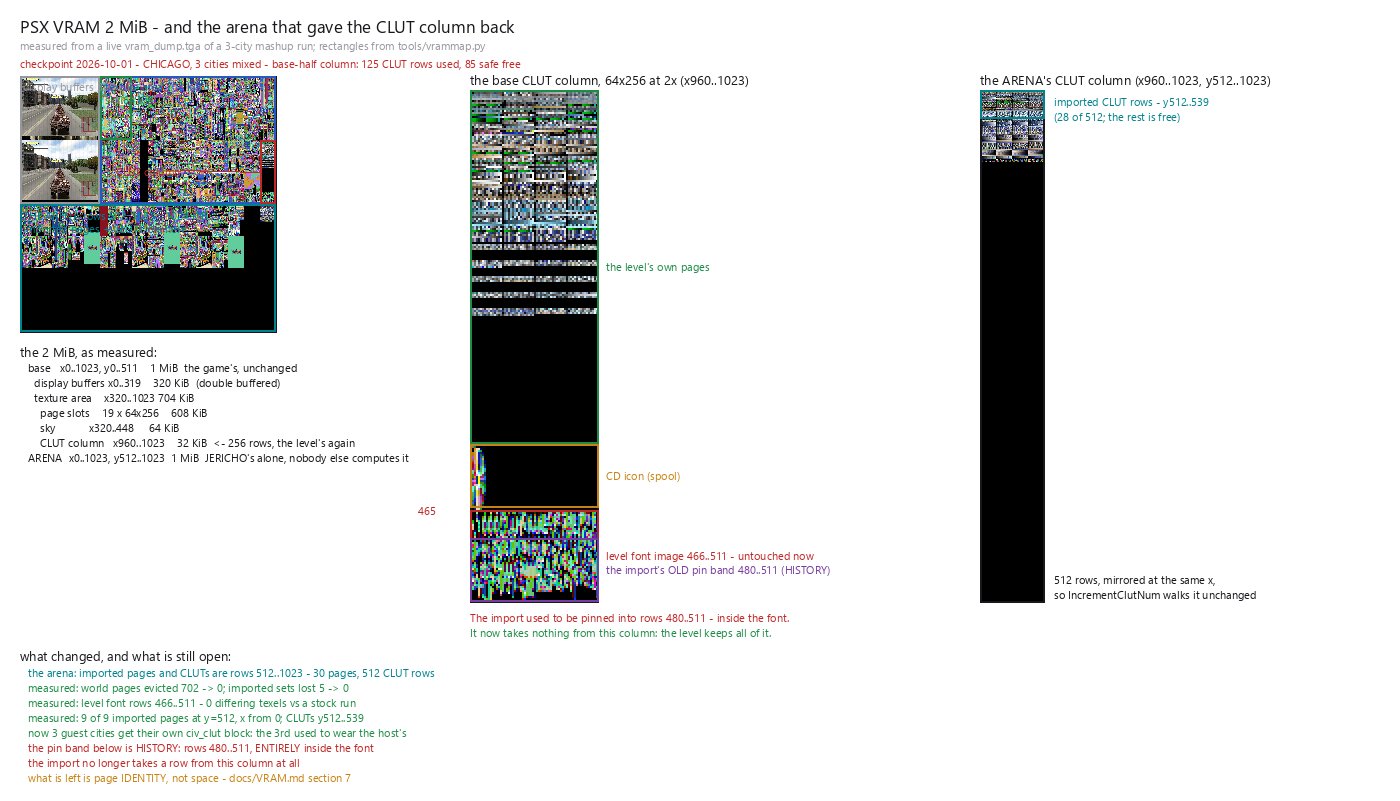
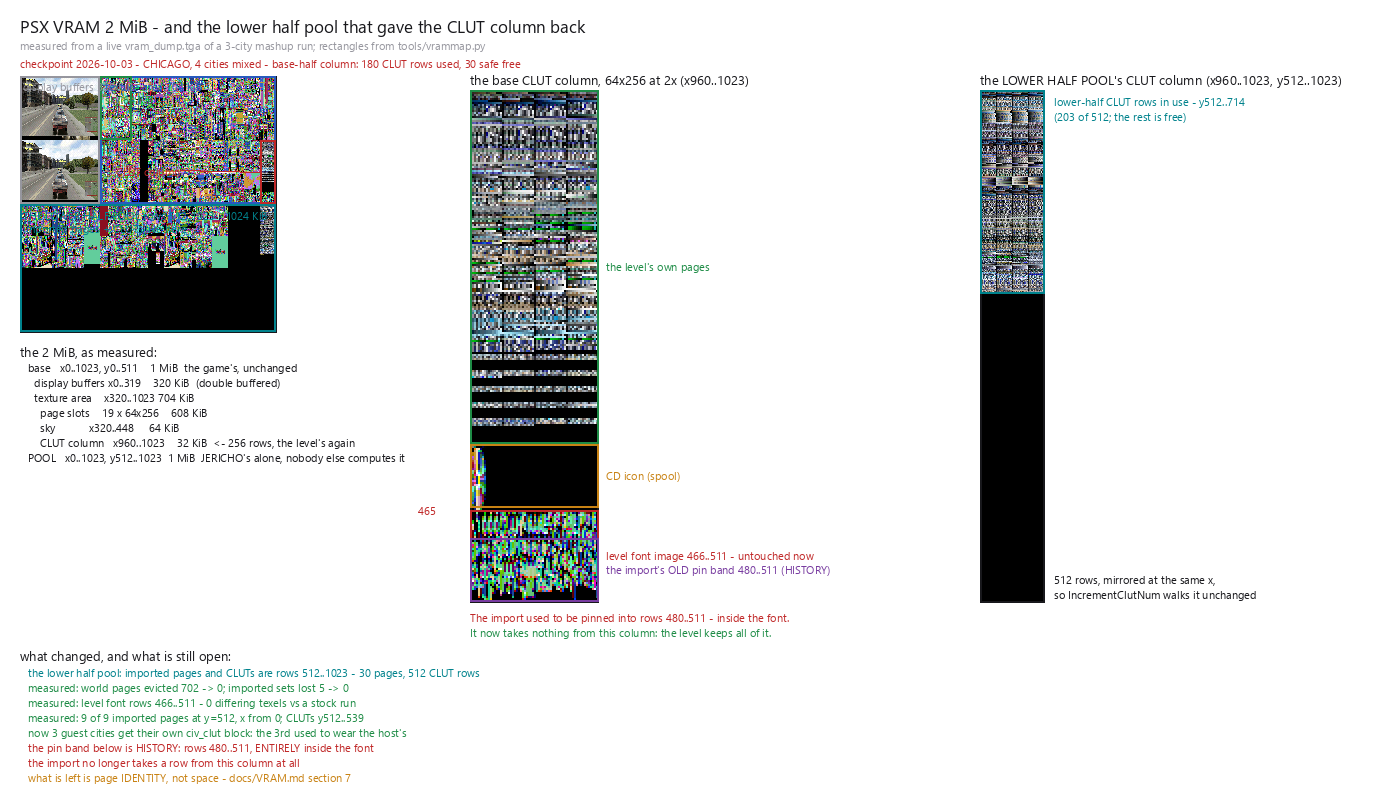
carhacks: a VRAM checkpoint for the three-guest-city run, and a measured label
chk_vram_checkpoint.sh CHICAGO 4 3-guest-cities: docs/vram-issues.png is rendered
from this run's own vram_dump.tga, with the run's numbers stamped into the figure
(base-half column 180 CLUT rows used, 30 safe free), and archived as
docs/vram/2026-10-03-chicago-3-guest-cities.png with an index row.

What it records: with the one-source-city gate lifted (the two_guest_cities
lever), HAVANA, VEGAS and RIO each hold their own civ_clut block in the same run
(rows 8..15 / 16..23 / 24..31) and the base CLUT column is unchanged from the
two-city checkpoint - same 180 used, 30 free. The 2026-09-30 row recorded the
third city being REFUSED at the measured ceiling; this one is that third city
working, at the same numbers.

Also fixed a stale annotation in make_vram_issues_png.py: the lower-half CLUT
panel hard-coded "imported CLUT rows - y512..539 (28 of 512)", which this dump
contradicts (measured: 203 rows in use, y512..714). It now measures the extent
from the dump, so the label cannot go stale as the mix changes.

diff --git a/tools/make_vram_issues_png.py b/tools/make_vram_issues_png.py
@@ -189,12 +189,22 @@ AX, AY, AC = 980, 90, 1
 astrip = vram.crop((CLUT_X, HALF, CLUT_X + 64, 1024))
 sheet.paste(astrip.resize((64 * AC, 512 * AC), Image.NEAREST), (AX, AY))
 d.rectangle([AX, AY, AX + 64 * AC, AY + 512 * AC], outline=INK, width=2)
-# The 3-city mix's own lower half pool CLUT rows, measured from the pinned rects in the log.
-d.rectangle([AX, AY, AX + 64 * AC, AY + 28 * AC], outline=TEAL, width=2)
-d.text((AX + 64 * AC + 10, AY + 4),
-       "imported CLUT rows - y512..539", fill=TEAL, font=small)
-d.text((AX + 64 * AC + 10, AY + 19),
-       "(28 of 512; the rest is free)", fill=TEAL, font=small)
+# The lower half pool's CLUT rows actually IN USE, measured from THIS dump. Never
+# hard-coded: the extent moves with how many cities the run mixed, and a stale
+# number here reads as a fact about the run.
+_lowclut = vram.crop((CLUT_X, HALF, CLUT_X + 64, 1024))
+_lowpx = _lowclut.load()
+_lowused = [y for y in range(HALF) if any(sum(_lowpx[x, y]) > 24 for x in range(64))]
+if _lowused:
+    _lowlast = _lowused[-1]
+    d.rectangle([AX, AY, AX + 64 * AC, AY + (_lowlast + 1) * AC], outline=TEAL, width=2)
+    d.text((AX + 64 * AC + 10, AY + 4),
+           "lower-half CLUT rows in use - y512..%d" % (HALF + _lowlast), fill=TEAL, font=small)
+    d.text((AX + 64 * AC + 10, AY + 19),
+           "(%d of 512; the rest is free)" % len(_lowused), fill=TEAL, font=small)
+else:
+    d.text((AX + 64 * AC + 10, AY + 4),
+           "no lower-half CLUT rows in use in this dump", fill=TEAL, font=small)
 d.text((AX + 64 * AC + 10, AY + 512 - 30),
        "512 rows, mirrored at the same x,", fill=INK, font=small)
 d.text((AX + 64 * AC + 10, AY + 512 - 15),

diff --git a/docs/vram/README.md b/docs/vram/README.md
@@ -18,3 +18,4 @@ with the image it produced in this folder. Row 1 is the **before** baseline.
 | 2026-09-30 | CHICAGO | 4 | 192 | 18 | (0,0) 0x0 = 0 KiB | 7724f9b9 | the pin table holds what a mashup asks for: CAR_PIN_MAX 8->16, each page now carries its source city (slots 4/5/6 went 30->234 of ~250 polys) |
 | 2026-10-01 | CHICAGO | 3 | 192 | 18 | (320,512) 704x512 = 704 KiB | f121e525 | the import lives in rows 512..1023 now; the level font is untouched and the base column is the level's again |
 | 2026-10-01 | CHICAGO | 3 | 125 | 85 | (320,512) 704x512 = 704 KiB | 09b7fe6b | both of the import's palette conditioners now take the arena column - the pin band and each guest city's palette table; the base CLUT column is byte-identical to a stock run |
+| 2026-10-03 | CHICAGO | 4 | 180 | 30 | (320,512) 704x512 = 704 KiB | d0ccdfd3 | the one-source-city gate lifted via the two_guest_cities lever: HAVANA, VEGAS and RIO each hold their own civ_clut block (8..15 / 16..23 / 24..31) in the same run; no overflow |
